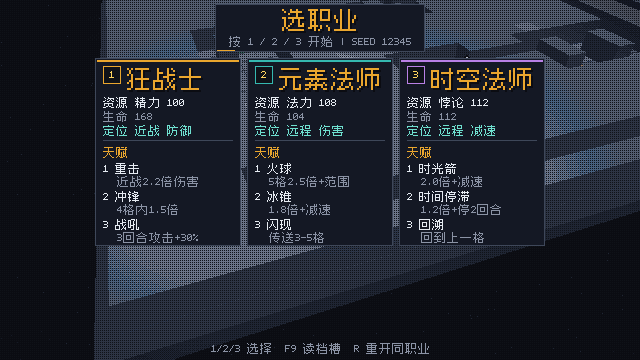
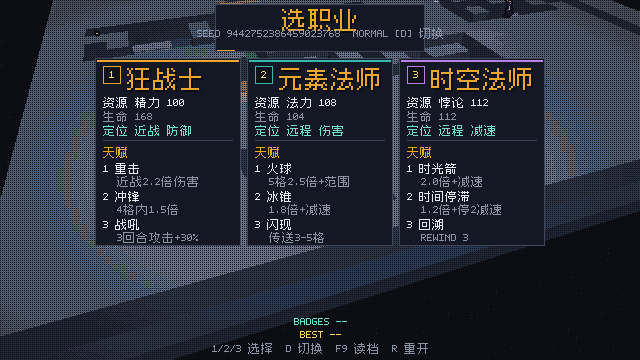
feat: local victory badges

diff --git a/README.md b/README.md
@@ -38,7 +38,7 @@
 - **幽魂汲取**：幽魂/精英幽魂每 3 次行动汲取一次，0.7× 伤害并回复 50% 伤害，逼玩家打断或速杀。
 - **石魔像震地**：距离 2 格且有视线时，每 3 次行动用一次 0.4× 远程震击（无破绽），逼玩家贴近或绕柱。
 - **精英词缀**：第 2 层起约 27% 非 Boss 敌人带迅捷/重甲/吸血/爆裂/FROST（命中 SLOW 2 回合）/BRSK（半血以下伤害 +25%）；第 3 层另有 2% SPLIT（死亡生成 20% HP、眩晕 1 回合的回响）。头顶显示 SWIFT / ARM / VAMP / VOL / FROST / BRSK / SPLIT。
-- **持久战绩**：saves/records.json 记录胜场/败场、三职业胜场、最佳楼层/回合/击杀/金币、累计 chunk 清空；开局菜单显示 BEST Fx Ty Kz Gw | WINS a/b/c CHn，死亡/胜利后自动更新。
+- **持久战绩**：saves/records.json 记录胜场/败场、三职业胜场、最佳楼层/回合/击杀/金币、累计 chunk 清空；开局菜单显示 BEST Fx Ty Kz Gw | WINS a/b/c CHn 与 BADGES（FIRST-WIN / ALL-CLASS / FLAWLESS），死亡/胜利后自动更新。
 - **诅咒宝箱**：约 22% 宝箱为红色诅咒箱，开箱扣 10% 最大生命并附加 1 回合破绽，但给 25 金币；可看颜色绕开。
 - **金币/补给站**：击杀与宝箱掉金币；每层一个 SHOP，可花 25G 治疗、60G 主属性 +2、60G 体质 +2、20G 净化（清除灼烧/减速/破绽）、80G 随机补给（按掉落表给一件装备/道具，自动装备更好者）、40G 补 1 枚 FIRE BOMB（英雄计数，不占背包），使用一次后消失。
 - **祭坛**：每层一处；踩上去四选一：主属性 / 体质 / 意志 +2，或 RISK 主属性 +4、体质 -2；Esc 可离开，使用后消失；HUD 显示 SHRINE 面板。
